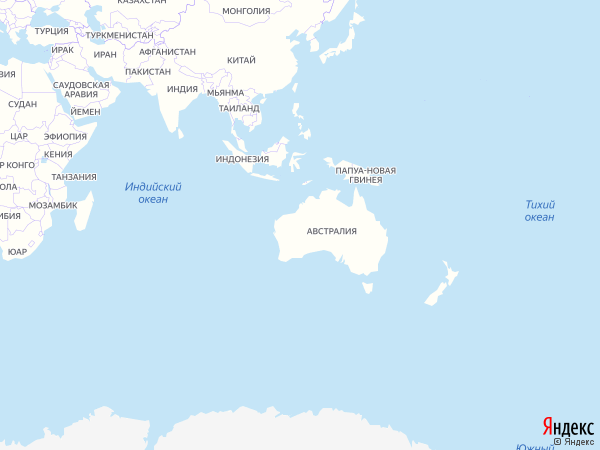
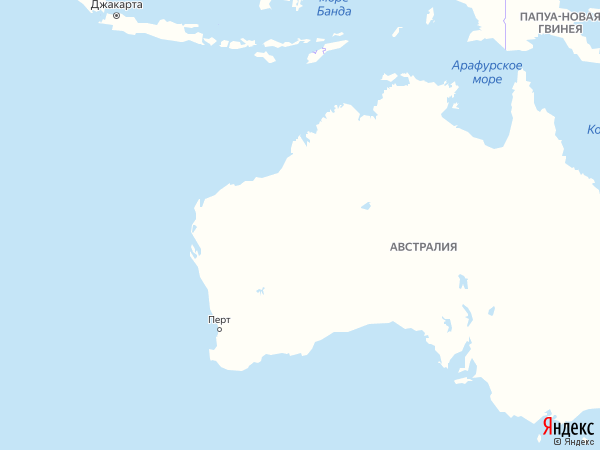
Делаю движение по стрелкам

diff --git a/main.py b/main.py
@@ -4,6 +4,7 @@ import requests
 from PyQt5 import uic, QtCore
 from PyQt5.QtGui import QPixmap
 from PyQt5.QtWidgets import QApplication, QMainWindow, QLineEdit
+from modules import *
 
 
 class Main(QMainWindow):
@@ -12,6 +13,7 @@ class Main(QMainWindow):
         uic.loadUi('map_api.ui', self)
         self.pushButton.clicked.connect(self.get_map)
         self.map_file = None
+        self.position = [37.615370, 55.756936]
         self.scale = 5
 
     def isEmpty(self, lineEdit: QLineEdit):
@@ -31,20 +33,22 @@ class Main(QMainWindow):
         except TypeError:
             pass
         if not (self.isEmpty(self.lineEdit) and self.isEmpty(self.lineEdit_2)):
-            spis = [','.join(self.lineEdit.text().split(' '))]
+            coord = [','.join(self.lineEdit.text().split(' '))]
+            self.position = coord
+            print(self.position)
             if len(self.lineEdit_2.text().strip().split(' ')) == 1:
-                spis.append(','.join([self.lineEdit_2.text().strip(), self.lineEdit_2.text().strip()]))
+                coord.append(','.join([self.lineEdit_2.text().strip(), self.lineEdit_2.text().strip()]))
                 self.scale = float(self.lineEdit_2.text().strip())
             else:
                 max_scale = str(max(list(map(float, self.lineEdit_2.text().strip().split(' ')))))
                 self.lineEdit_2.setText(max_scale)
                 self.scale = float(max_scale)
-                spis.append(','.join([max_scale, max_scale]))
-            for i in spis:
+                coord.append(','.join([max_scale, max_scale]))
+            for i in coord:
                 url_template = url_template.replace(' ', i, 1)
             response = requests.get(url_template)
             if not response:
-                print('error')
+                print(f'error {response.text}')
             else:
                 self.map_file = "map.png"
                 with open(self.map_file, "wb") as file:
@@ -53,6 +57,7 @@ class Main(QMainWindow):
             self.label.setPixmap(pixmap)
 
     def closeEvent(self, event):
+        """"""
         try:
             os.remove(self.map_file)
         except TypeError:
@@ -61,16 +66,27 @@ class Main(QMainWindow):
     def keyPressEvent(self, key):
         if key.key() in [QtCore.Qt.Key_Enter, QtCore.Qt.Key_Return]:
             self.get_map()
-        if key.key() in [QtCore.Qt.Key_PageUp]:
+        if key.key() == QtCore.Qt.Key_PageUp:
             if self.scale < 90:
                 self.scale += 1
             self.lineEdit_2.setText(str(round(self.scale)))
             self.get_map()
-        if key.key() in [QtCore.Qt.Key_PageDown]:
+        if key.key() == QtCore.Qt.Key_PageDown:
             if self.scale > 0:
                 self.scale -= 1
             print(self.scale)
             self.lineEdit_2.setText(str(round(self.scale)))
+            self.get_map()
+        if key.key() == QtCore.Qt.Key_Up:
+            if int(self.position[1]) < 70:
+                self.position[1] += 0.5
+            print(self.position)
+            self.lineEdit.setText(' '.join(list(map(str, self.position))))
+            self.get_map()
+        if key.key() == QtCore.Qt.Key_Right:
+            #if int(self.position[0]) <
+            self.position[0] += 0.5
+            self.lineEdit.setText(' '.join(list(map(str, self.position))))
             self.get_map()
 
 
